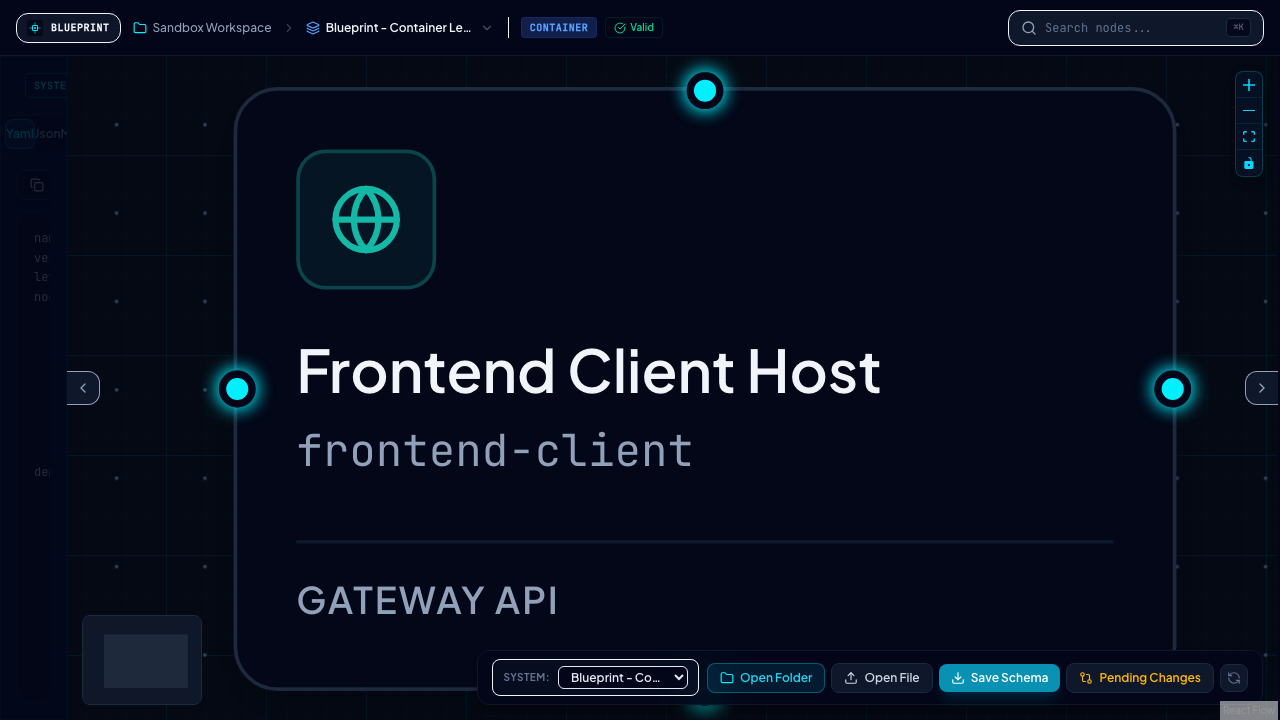
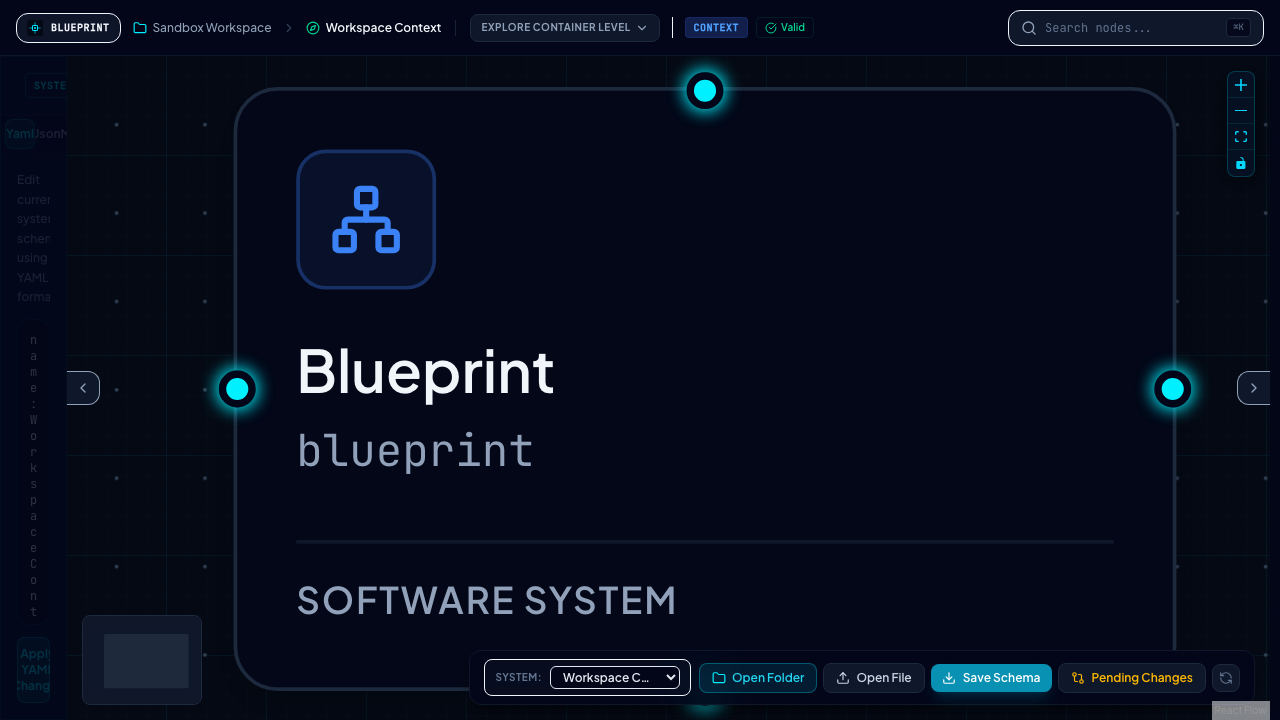
test: comment out obsolete e2e test steps and update documentation assets following workspace decommissioning

diff --git a/app/packages/designer/tests/e2e.spec.ts b/app/packages/designer/tests/e2e.spec.ts
@@ -49,36 +49,35 @@ test.describe('Blueprint E2E Journeys', () => {
 
     await page.locator('button[aria-label="Toggle Right Panel"]').click();
 
-    await expect(page.locator('#workspace-name-input')).toHaveValue(
-      'TestProject - Container Level'
-    );
-    await expect(page.locator('#workspace-slug-input')).toHaveValue('testproject');
+    await expect(page.locator('#workspace-name-input')).toHaveValue('Workspace Context');
+    //TODO 20260713- e2e tests need updating after workspace decom
+    // await expect(page.locator('#workspace-slug-input')).toHaveValue('testproject');
 
-    await page.screenshot({ path: '../../docs/screenshots/3-container-level.png' });
+    // await page.screenshot({ path: '../../docs/screenshots/3-container-level.png' });
 
-    const appShellNode = page
-      .locator('.react-flow__node', { hasText: 'Application Shell' })
-      .first();
-    await expect(appShellNode).toBeVisible();
+    // const appShellNode = page
+    //   .locator('.react-flow__node', { hasText: 'Application Shell' })
+    //   .first();
+    // await expect(appShellNode).toBeVisible();
 
-    await appShellNode.dblclick();
+    // await appShellNode.dblclick();
 
-    await expect(page.locator('#workspace-name-input')).toHaveValue(
-      'TestProject - Application Shell Components'
-    );
-    await expect(page.locator('#workspace-slug-input')).toHaveValue('testproject/app-host');
-    expect(page.url()).toContain('/workspace/testproject/app-host');
+    // await expect(page.locator('#workspace-name-input')).toHaveValue(
+    //   'TestProject - Application Shell Components'
+    // );
+    // await expect(page.locator('#workspace-slug-input')).toHaveValue('testproject/app-host');
+    // expect(page.url()).toContain('/workspace/testproject/app-host');
 
-    await page.screenshot({ path: '../../docs/screenshots/4-zoomed-in-components.png' });
+    // await page.screenshot({ path: '../../docs/screenshots/4-zoomed-in-components.png' });
 
-    await page.keyboard.press('Escape');
+    // await page.keyboard.press('Escape');
 
-    await expect(page.locator('#workspace-name-input')).toHaveValue(
-      'TestProject - Container Level'
-    );
-    await expect(page.locator('#workspace-slug-input')).toHaveValue('testproject');
-    expect(page.url()).toContain('/workspace/testproject');
+    // await expect(page.locator('#workspace-name-input')).toHaveValue(
+    //   'TestProject - Container Level'
+    // );
+    // await expect(page.locator('#workspace-slug-input')).toHaveValue('testproject');
+    // expect(page.url()).toContain('/workspace/testproject');
 
-    await page.screenshot({ path: '../../docs/screenshots/5-zoomed-back-out.png' });
+    // await page.screenshot({ path: '../../docs/screenshots/5-zoomed-back-out.png' });
   });
 });